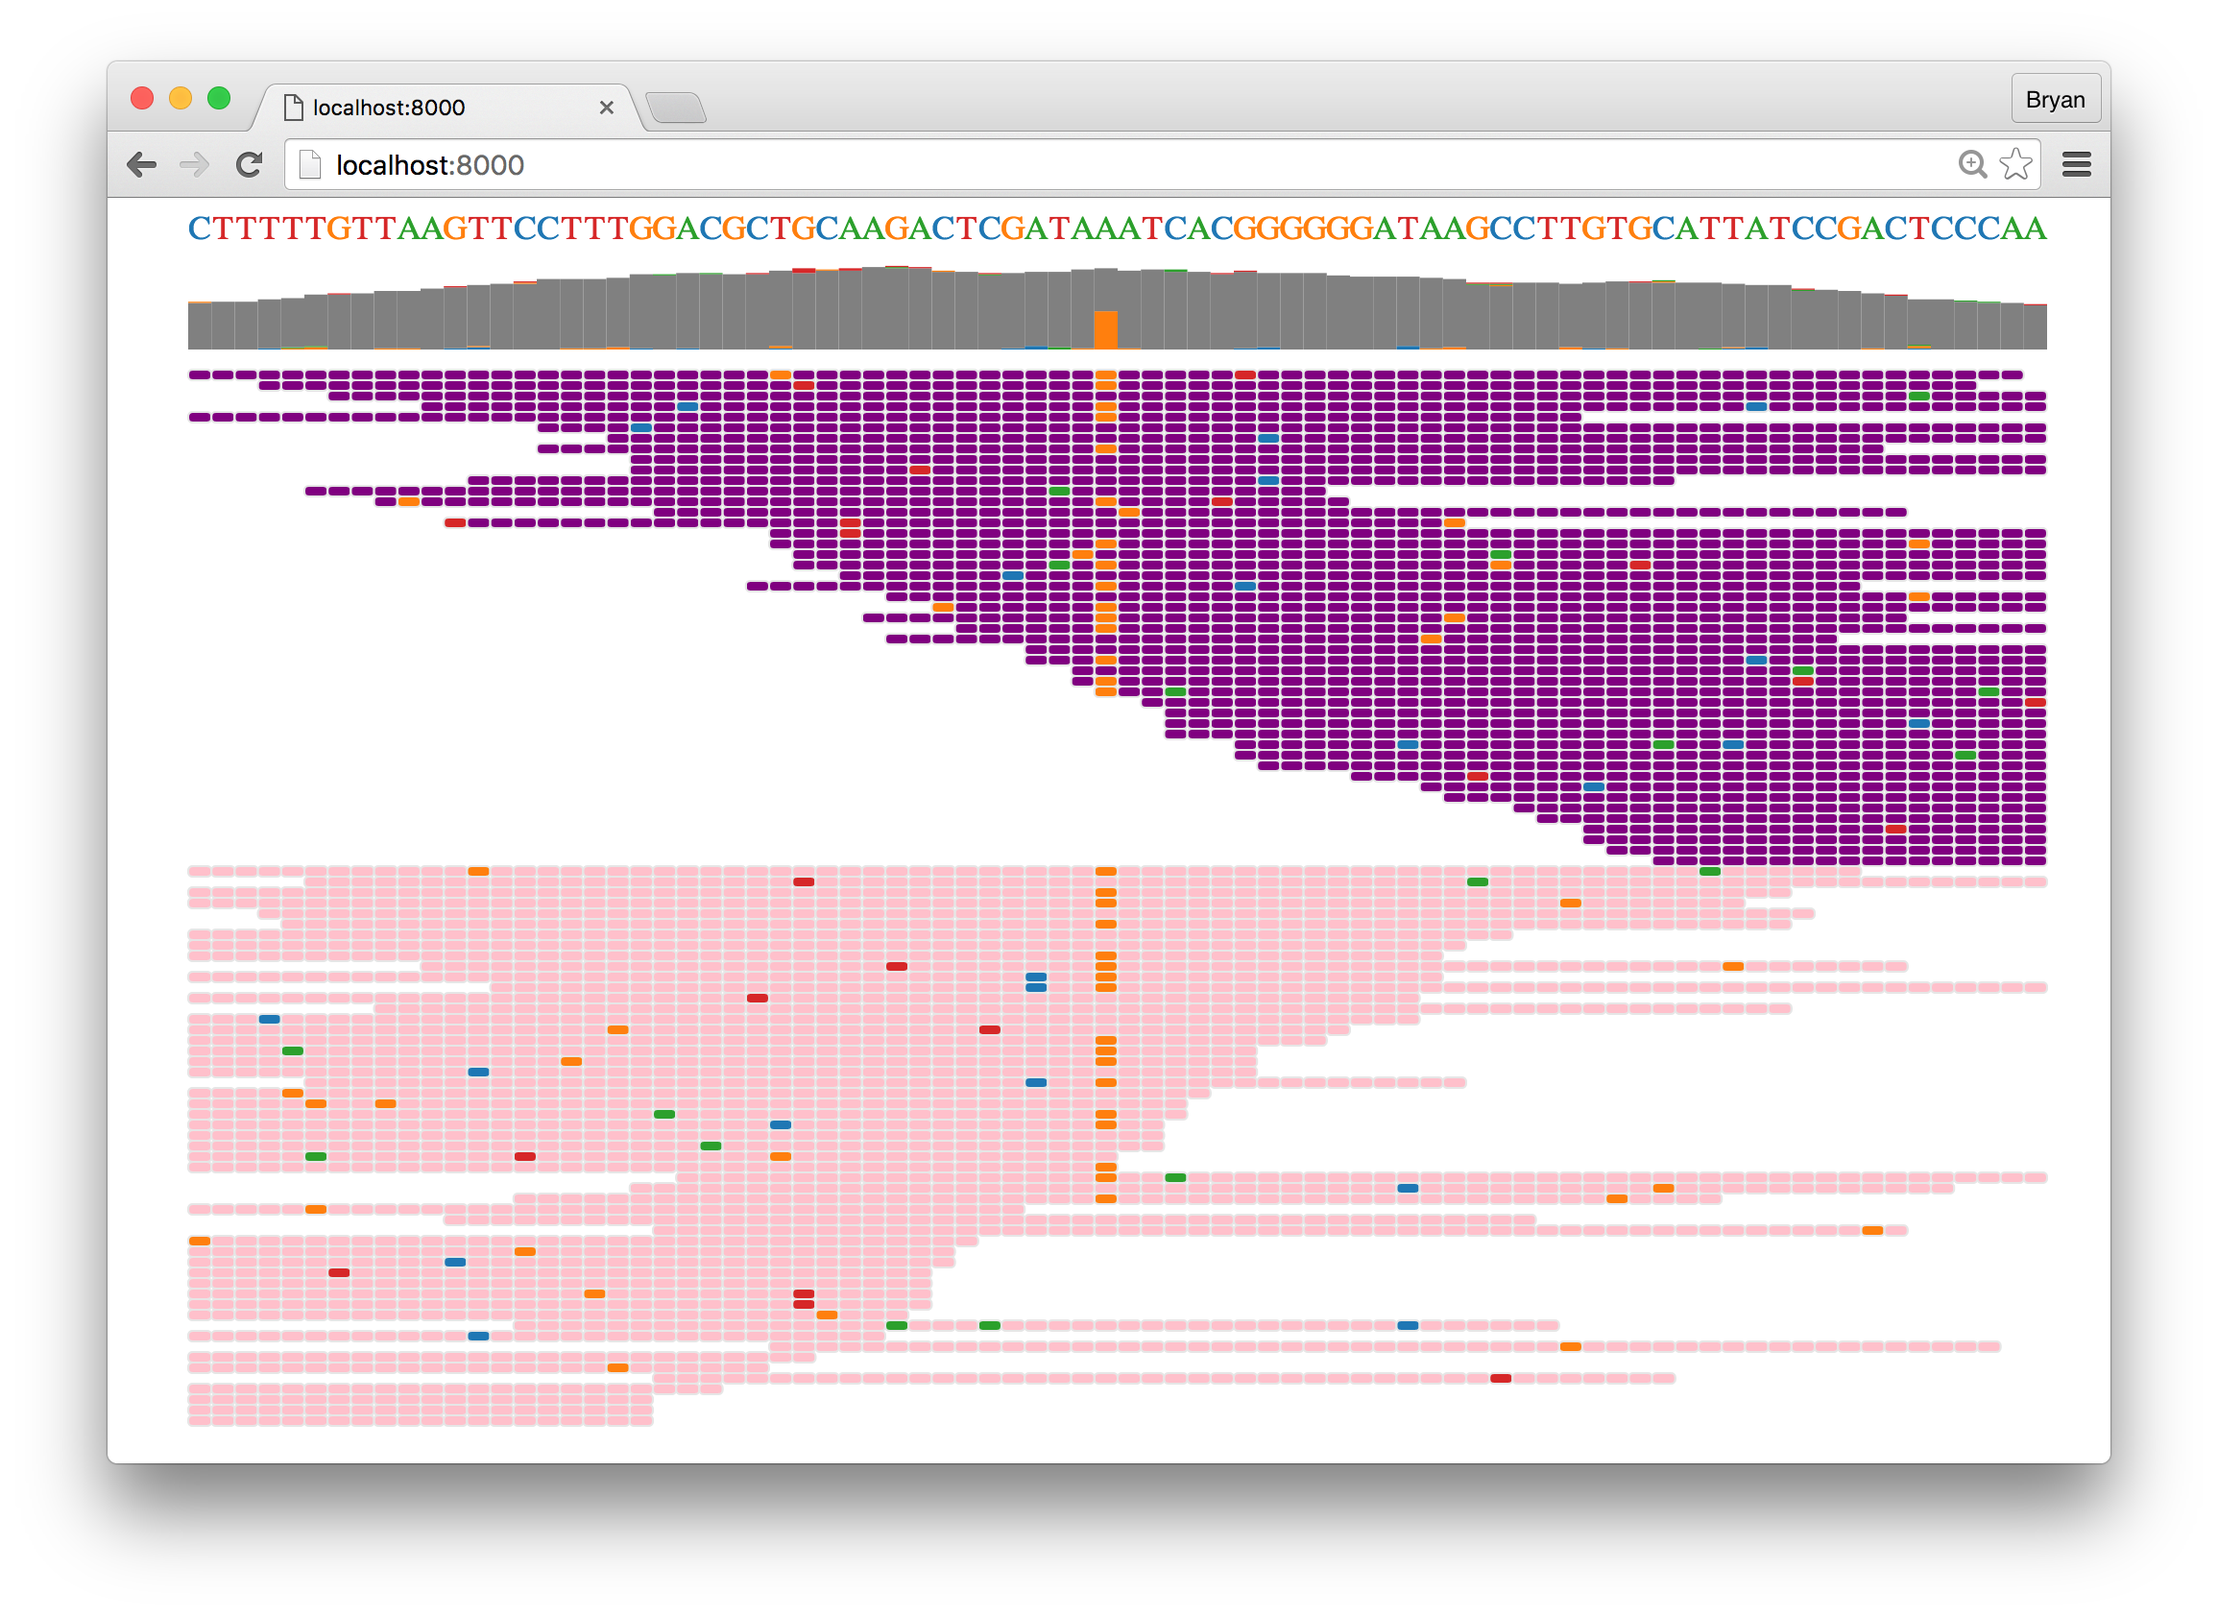
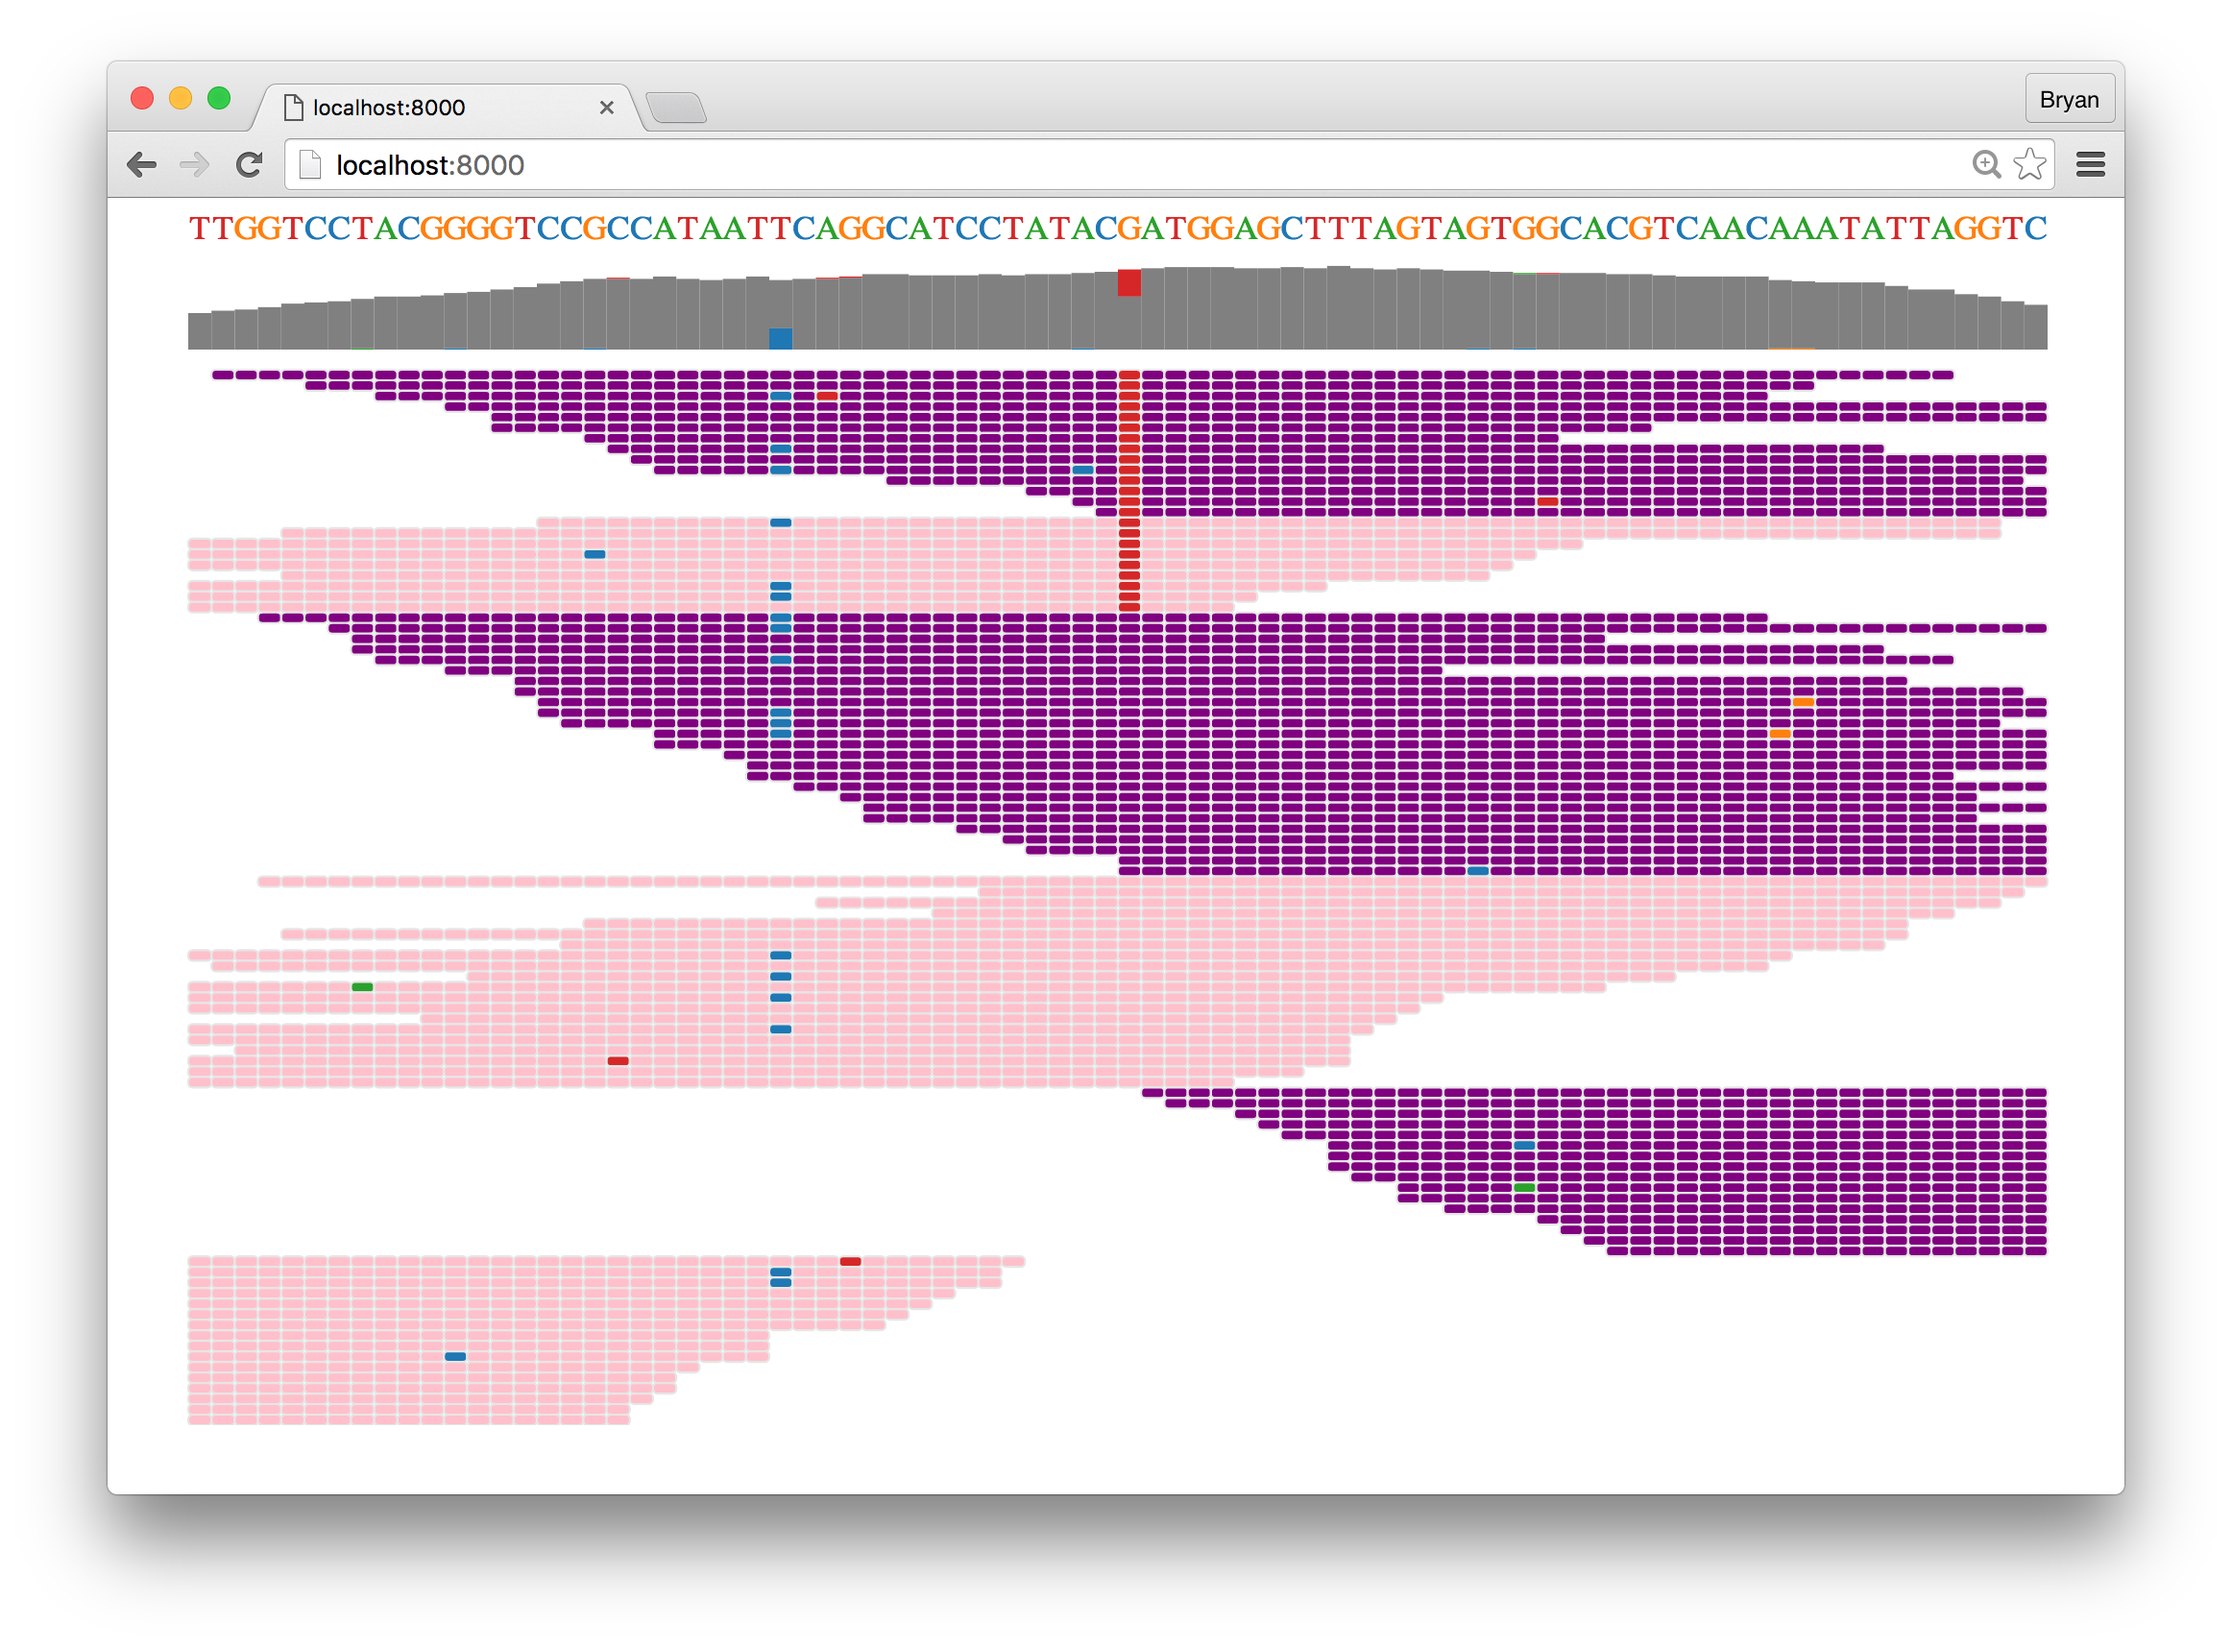
fixed positional sorting

diff --git a/app/index.html b/app/index.html
@@ -43,32 +43,26 @@
           readTrackHeight = 500
           width = maxWidth
           data = null
-          ascending = true;
+          positionalSort = false
+          lastSortPos = -1;
 
       var tooltip = d3.select("body").append("div")
           .attr("class", "tooltip")
           .style("opacity", 0);
 
-      var svgRefSeq = d3.select("#refseq_track").append("svg")
-            .attr("width", maxWidth + margin.left + margin.right)
-            .attr("height", refSeqTrackHeight + margin.top)
-            .append("g")
-            .attr("transform", "translate(" + margin.left + "," + margin.top + ")");
+      function makeSVG(divID, trackHeight) {
+        return d3.select(divID).append("svg")
+                .attr("width", maxWidth + margin.left + margin.right)
+                .attr("height", trackHeight + margin.top)
+                .append("g")
+                .attr("transform", "translate(" + margin.left + "," + margin.top + ")");
+      }
 
-      var svgCoverage = d3.select("#coverage_track").append("svg")
-            .attr("width", maxWidth + margin.left + margin.right)
-            .attr("height", coverageTrackHeight + margin.top)
-            .append("g")
-            .attr("transform", "translate(" + margin.left + "," + margin.top + ")");
-
-      var svgReads = d3.select("#reads_track").append("svg")
-            .attr("width", maxWidth + margin.left + margin.right)
-            .attr("height", readTrackHeight + margin.top + margin.bottom)
-            .append("g")
-            .attr("transform", "translate(" + margin.left + "," + margin.top + ")");
+      var svgRefSeq = makeSVG("#refseq_track", refSeqTrackHeight);
+      var svgCoverage = makeSVG("#coverage_track", coverageTrackHeight);
+      var svgReads = makeSVG("#reads_track", readTrackHeight);
 
       function renderRefSeq() {
-        // reference sequence
         var referenceLabels = svgRefSeq.selectAll(".referenceLabel")
             .data(data.reference.split(""))
             .enter().append("text")
@@ -78,12 +72,7 @@
               .style("text-anchor", "middle")
               .attr("transform", "translate(" + gridSizeX / 2 + ", "  + refSeqTrackHeight / 1.5 + ")")
               .style("fill", function(d) { return colorScale(d); })
-              .on({"click": function(d, i) {
-                ascending = !ascending
-                sortReads(byPosition=i);
-                renderReads();
-              }});
-      }
+      };
 
       function renderCoverage() {
         // reformat coverage to a list of {values: {base: .. }
@@ -146,54 +135,22 @@
                                "C: " + data.coverage[i].C + "<br>" +
                                "G: " + data.coverage[i].G + "<br>" +
                                "T: " + data.coverage[i].T)
-                      .style("left", (d3.event.pageX) + "px")
+                      .style("left", (d3.event.pageX + 10) + "px")
                       .style("top", (d3.event.pageY - 28) + "px");
                   })
               .on("mouseout", function(d) {
                   tooltip.transition()
                       .duration(500)
                       .style("opacity", 0);
-              });
-
-              ;
+              })
+              .on({"click": function(d, i) {
+                positionalSort = (i != lastSortPos) || !positionalSort;
+                lastSortPos = i;
+                sortReads(position=positionalSort ? i : null);
+                renderReads();
+              }});
       }
 
-      function sortReads(byPosition=null) {
-        data.reads.sort(function (a, b) {
-          function score(read) {
-            var s = 0
-            if (byPosition) {
-              s = data.coverage[byPosition][read.sequence[byPosition - read.start]];
-              if (s == null) {
-                return s;
-              }
-              else {
-                s *= data.reference.length * data.reads.length;
-              }
-            }
-            if (read.fwd) {
-              s += data.reference.length * 5;
-            }
-            s += read.sequence.length;
-            s -= read.start;
-            return s;
-          }
-
-          var scoreA = score(a)
-              scoreB = score(b)
-              delta = scoreA - scoreB;
-
-          // always put reads without coverage at the specified position last
-          if (scoreA == null || scoreB == null) {
-            if (scoreA == null && scoreB == null) {
-              return 0
-            }
-            return (scoreA == null ? 1 : -1)
-          }
-
-          return delta * (ascending ? -1 : 1);
-        })
-      }
 
       function renderReads() {
         function expandReads(data) {
@@ -240,18 +197,81 @@
         cards.exit().remove();
       };
 
+
+      function sortReads(position=null) {
+        function compare(a, b, byPosition=true) {
+          /*
+          sort levels:
+          1) read covers base
+          2) read base coverage
+          3) foward reads
+          4) by start delay
+          */
+
+          if (byPosition && position) {
+            function readAtBase(read) {
+              return read.sequence[position - read.start];
+            }
+
+            function baseCoverage(base) {
+              if (base == data.reference[position]) {
+                // put wild-type reads at the bottom
+                return 0;
+              }
+              else {
+                return data.coverage[position][base];
+              }
+            }
+
+            readAbase = readAtBase(a);
+            readBbase = readAtBase(b);
+
+            if (readAbase && readBbase) {
+              var delta = baseCoverage(readBbase) - baseCoverage(readAbase);
+              if (delta == 0) {
+                if (readAbase == readBbase) {
+                  return compare(a, b, false)
+                }
+                delta = readAbase > readBbase ? 1 : -1;
+              }
+              return delta
+            }
+            else if (readAbase || readBbase) {
+              var delta = readAbase ? -10 : 10;
+              return delta * data.reference.length + compare(a, b, false);
+            }
+            else {
+              return compare(a, b, false);
+            }
+          }
+          else {
+            var s = 0
+            if (a.fwd != b.fwd) {
+              s += a.fwd ? -data.reference.length : data.reference.length;
+            }
+            function startDelay(read) {
+              return read.fwd ? read.start : data.reference.length - (read.start + read.sequence.length);
+            }
+
+            s += startDelay(a) - startDelay(b);
+            return s;
+          }
+        }
+
+        data.reads.sort(compare)
+      }
+
+
       function render(data) {
         gridSizeX = Math.floor((maxWidth - margin.left - margin.right) / data.reference.length)
         width = gridSizeX * data.reference.length
 
-        sortReads()
+        sortReads(position=Math.floor(data.reference.length / 2))
         renderRefSeq();
         renderCoverage();
         renderReads();
       }
 
-
-      var data;
       d3.xhr("/reads")
           .header("Content-Type", "application/json")
           .post(JSON.stringify({

diff --git a/app/read_generator.py b/app/read_generator.py
@@ -49,9 +49,14 @@ def make_fake_read(reference_sequence, read_error_rate, SNPs):
 def generate_fake_reads(read_error_rate=0.03, sequence_length=80, num_reads=100,
                         max_SNPs=4, tumor_content=0.3):
     reference_sequence = [random.choice(BASES) for _ in xrange(sequence_length)]
-    n_SNPs = random.randrange(max_SNPs) + 1
+    n_SNPs = random.randrange(max_SNPs)
     SNPs = [make_SNP(reference_sequence, tumor_content=tumor_content)
             for _ in xrange(n_SNPs)]
+
+    reticle_SNP = make_SNP(reference_sequence, tumor_content)
+    reticle_SNP['pos'] = sequence_length / 2
+    SNPs.append(reticle_SNP)
+
     reads = [make_fake_read(reference_sequence, read_error_rate, SNPs)
              for _ in xrange(num_reads)]
 

diff --git a/app/api.py b/app/api.py
@@ -11,7 +11,7 @@ from app import read_generator
 api = Flask(__name__)
 
 
-DEFAULT_ARGS = {'read_error_rate': 0.03,
+DEFAULT_ARGS = {'read_error_rate': 0.003,
                 'sequence_length': 80,
                 'num_reads': 100,
                 'max_SNPs': 4,

diff --git a/README.md b/README.md
@@ -2,7 +2,7 @@
 
 This is a hobby project trying to recreate a lightweight [Integrated Genome Viewer](https://www.broadinstitute.org/igv/)-like interface for viewing genomic sequencing data using [D3](https://d3js.org/).
 
-This project does not currently allow for processing reads from real BAM files; all data is simulated via crude model.
+This project does not currently allow for processing reads from real BAM files; all data is simulated via crude model (no indels, no correlation between read presence for multiple SNPs, etc).   This is just a visualization exercise.
 
 
 ## Sample output
